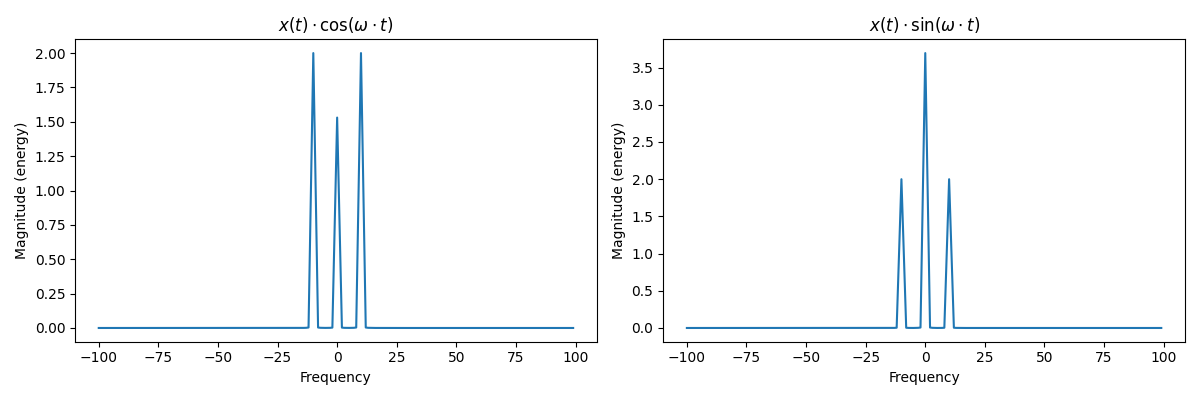
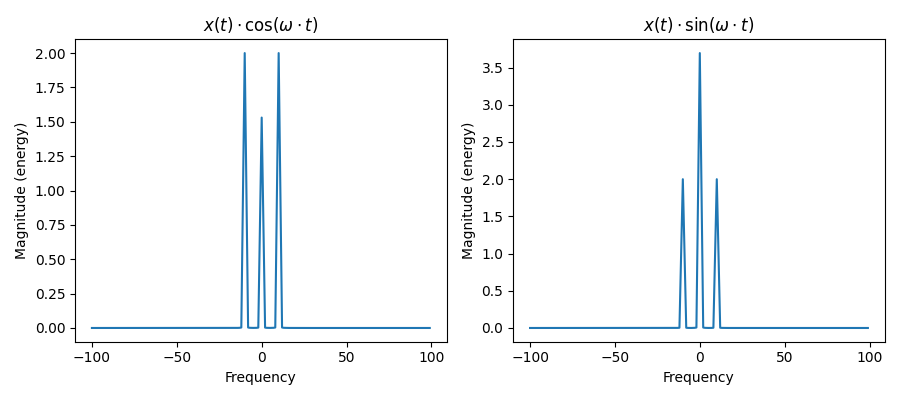
Updated for pdf export

diff --git a/2025_Exercise_2/pdf_export.py b/2025_Exercise_2/pdf_export.py
@@ -5,20 +5,20 @@ import os
 
 
 # File data specific to the assignment
-assignment_name = "Exercise_1"
+assignment_name = "Exercise_2"
 
-files = ["1_the_audio_file.ipynb", 
-         "2_processing_audio.ipynb", 
-         "3_sinusoids.ipynb", 
-         "4_audio_analysis.ipynb", 
-         "5_audio_filtering.ipynb", 
-         "6_exercise_review.ipynb"]
+files = ["1_adding_sines.ipynb", 
+         "2_sinusoids_decomposition.ipynb", 
+         "3_frequency_shifting.ipynb",
+         "4_tide_prediction.ipynb", 
+         "5_exercise_review.ipynb"]
 
-title = "Exercise 1: An introduction to Digital Signal Processing using Python"
+title = "Exercise 2: Understanding the Fourier Transform"
 
 intro_text = """
-In this exercise, the focus is on audio signals. The exercise problems cover topics from sampling 
-and audio file formatting, to spectral analysis of digital audio and simple filtering of audio signals.  
+In this exercise, we will take a computational approach to understanding the fourier transform. 
+The problems in the exercise cover frequency mixing and complex downconversion, and how these 
+principles can be used to extract information on individual sinusoidal componets from a signal.
 """
 
 
@@ -62,8 +62,8 @@ def write_to_PDF(student_name: str):
     for file in files:
         with open(file, 'r', encoding='utf-8') as fh:
             nb = nbformat.read(fh, as_version=4)
-            nb.cells.pop(0) # Remove header
-            nb.cells.pop(-1) # Remove footer
+            #nb.cells.pop(0) # Remove header
+            #nb.cells.pop(-1) # Remove footer
             merged_cells.extend(nb.cells)
             
     merged.cells = merged_cells

diff --git a/2025_Exercise_2/demos.py b/2025_Exercise_2/demos.py
@@ -304,7 +304,7 @@ class FrequencyMixingDemo():
 
 # Frekvensmiksing      
 class FrequencyMixingSpectrumDemo:
-    def __init__(self, fig_num=4, figsize=(12,6)):
+    def __init__(self, fig_num=4, figsize=(9,5)):
         # Set up canvas
         plt.close(fig_num)
         self.fig = plt.figure(fig_num, figsize=figsize)
